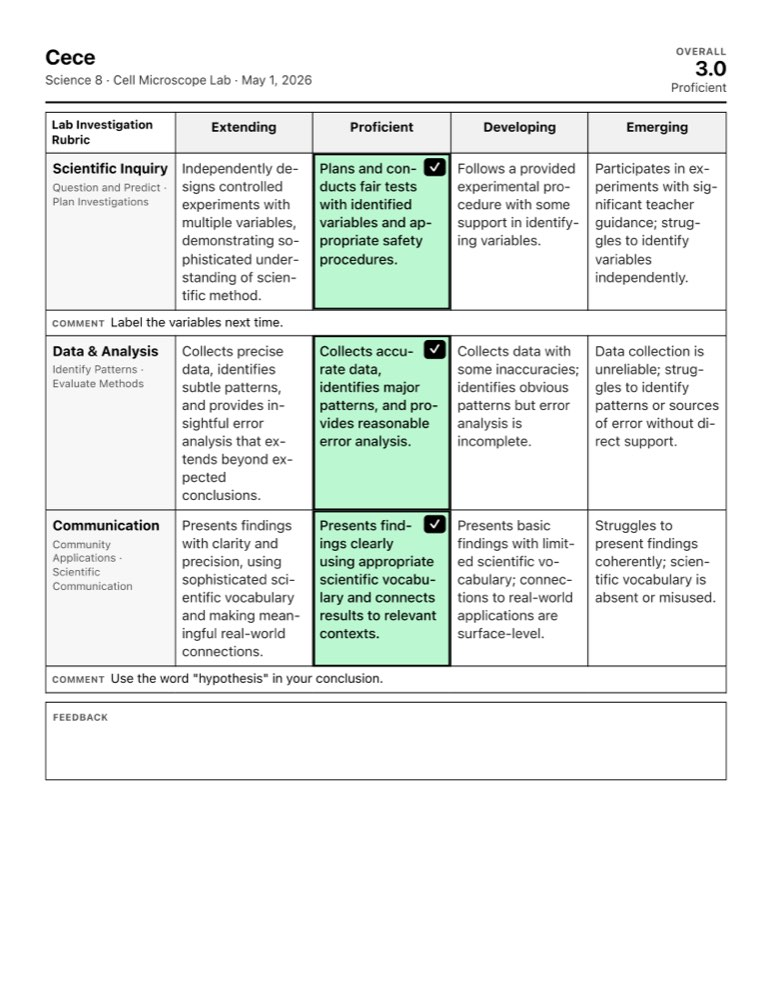
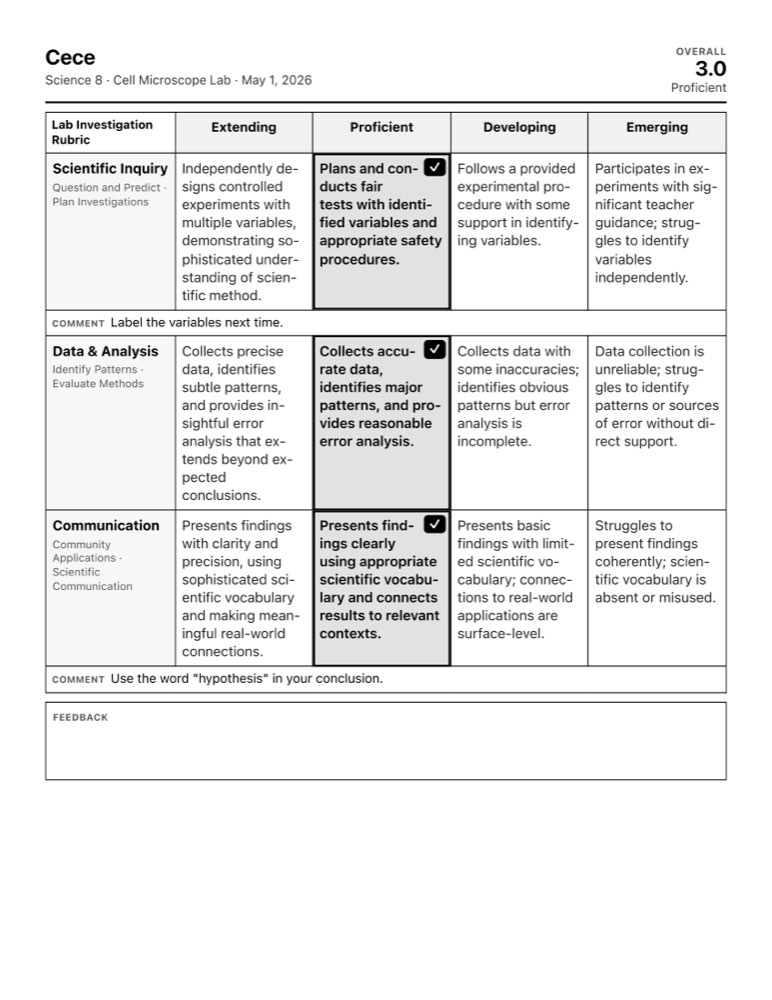
Rubric handouts print in black and white
The sheets are photocopied, so the scored cell is a light grey fill with a
heavy border and the ✓ mark instead of the level colour. Verification
pages regenerated.

Changed region(s): [[0.4041, 0.341, 0.5907, 0.682], [0.4041, 0.155, 0.5907, 0.31]]

diff --git a/teacher/rubric-print.css b/teacher/rubric-print.css
@@ -3,8 +3,8 @@
    The sheets render into #rubric-print-root, kept off screen so they can be
    measured, and become the only thing on the page while
    body.rubric-print-active is set. Sheet boxes are sized in inches to match
-   the @page rule rubric-print.js injects per layout. Colours are fixed hex
-   values: the handout prints the same in dark mode. */
+   the @page rule rubric-print.js injects per layout. Everything is black,
+   white and grey: the handouts are photocopied. */
 
 #rubric-print-root {
   position: absolute;
@@ -197,23 +197,14 @@
   position: relative;
   color: #222;
 }
+/* Black and white only: the handouts go through the photocopier. The
+   scored cell is a light grey fill, a heavy border and a ✓ mark. */
 .rubric-cell.is-scored {
   color: #000;
-  font-weight: 500;
-  outline: 2px solid #000;
-  outline-offset: -2px;
-}
-.rubric-cell.is-scored.l4 {
-  background: #dbeafe;
-}
-.rubric-cell.is-scored.l3 {
-  background: #bbf7d0;
-}
-.rubric-cell.is-scored.l2 {
-  background: #fef3c7;
-}
-.rubric-cell.is-scored.l1 {
-  background: #fee2e2;
+  font-weight: 600;
+  background: #e2e2e2;
+  outline: 2.5px solid #000;
+  outline-offset: -2.5px;
 }
 .rubric-mark {
   float: right;

diff --git a/teacher/rubric-print.js b/teacher/rubric-print.js
@@ -2,7 +2,8 @@
 
    A teacher scores a rubric assessment once in the grid, then prints a
    student-facing rubric per student: the four level descriptors, the chosen
-   level shaded with its ± mark, the comment on each criterion, the
+   level in grey with a heavy border and its ± mark (black and white only:
+   the sheets are photocopied), the comment on each criterion, the
    assessment feedback and the overall level. Stapled to the work, it is the
    feedback the student takes home, while the score keeps feeding the
    student profile.

diff --git a/docs/DECISIONS.md b/docs/DECISIONS.md
@@ -82,7 +82,7 @@ Context: rubric scores are stored per criterion and projected onto the criterion
 Context: every gradebook compared in the rubrics review returns the rubric to the student; FullVision's scoring grid shows only the four level buttons. `migrations/20261018_rubric_score_comment.sql`; `teacher/rubric-print.js`.
 
 1. **Descriptors stay off the scoring grid.** Teachers grade for speed and know their rubrics; the descriptor belongs on the thing the student gets. Hover still shows it.
-2. **The handout is the feedback.** "Print rubrics" on a rubric assessment prints one student-facing rubric per student: the descriptors, the chosen level shaded with its ± mark, a short comment per criterion, the assessment comments and the overall level. The teacher scores once, prints, staples it to the work; the score still feeds the student profile.
+2. **The handout is the feedback.** "Print rubrics" on a rubric assessment prints one student-facing rubric per student: the descriptors, the chosen level in grey with a heavy border and its ± mark (black and white only: the sheets are photocopied), a short comment per criterion, the assessment comments and the overall level. The teacher scores once, prints, staples it to the work; the score still feeds the student profile.
 3. **Three layouts:** full page, half sheet (two per landscape page) and quarter sheet (four per page), cut lines between. Text shrinks by layout, and shrinks further by steps to fit; a sheet that still does not fit is clipped and the dialog says so before printing.
 4. **One comment per criterion**, stored on `rubric_score.comment`, entered from an icon on the criterion row. It cannot exist without a level on the server, so a comment typed first waits on the device and goes up with the level.
 5. **Unscored students print a blank rubric.** Not submitted and Excused print as such in place of the overall level.
